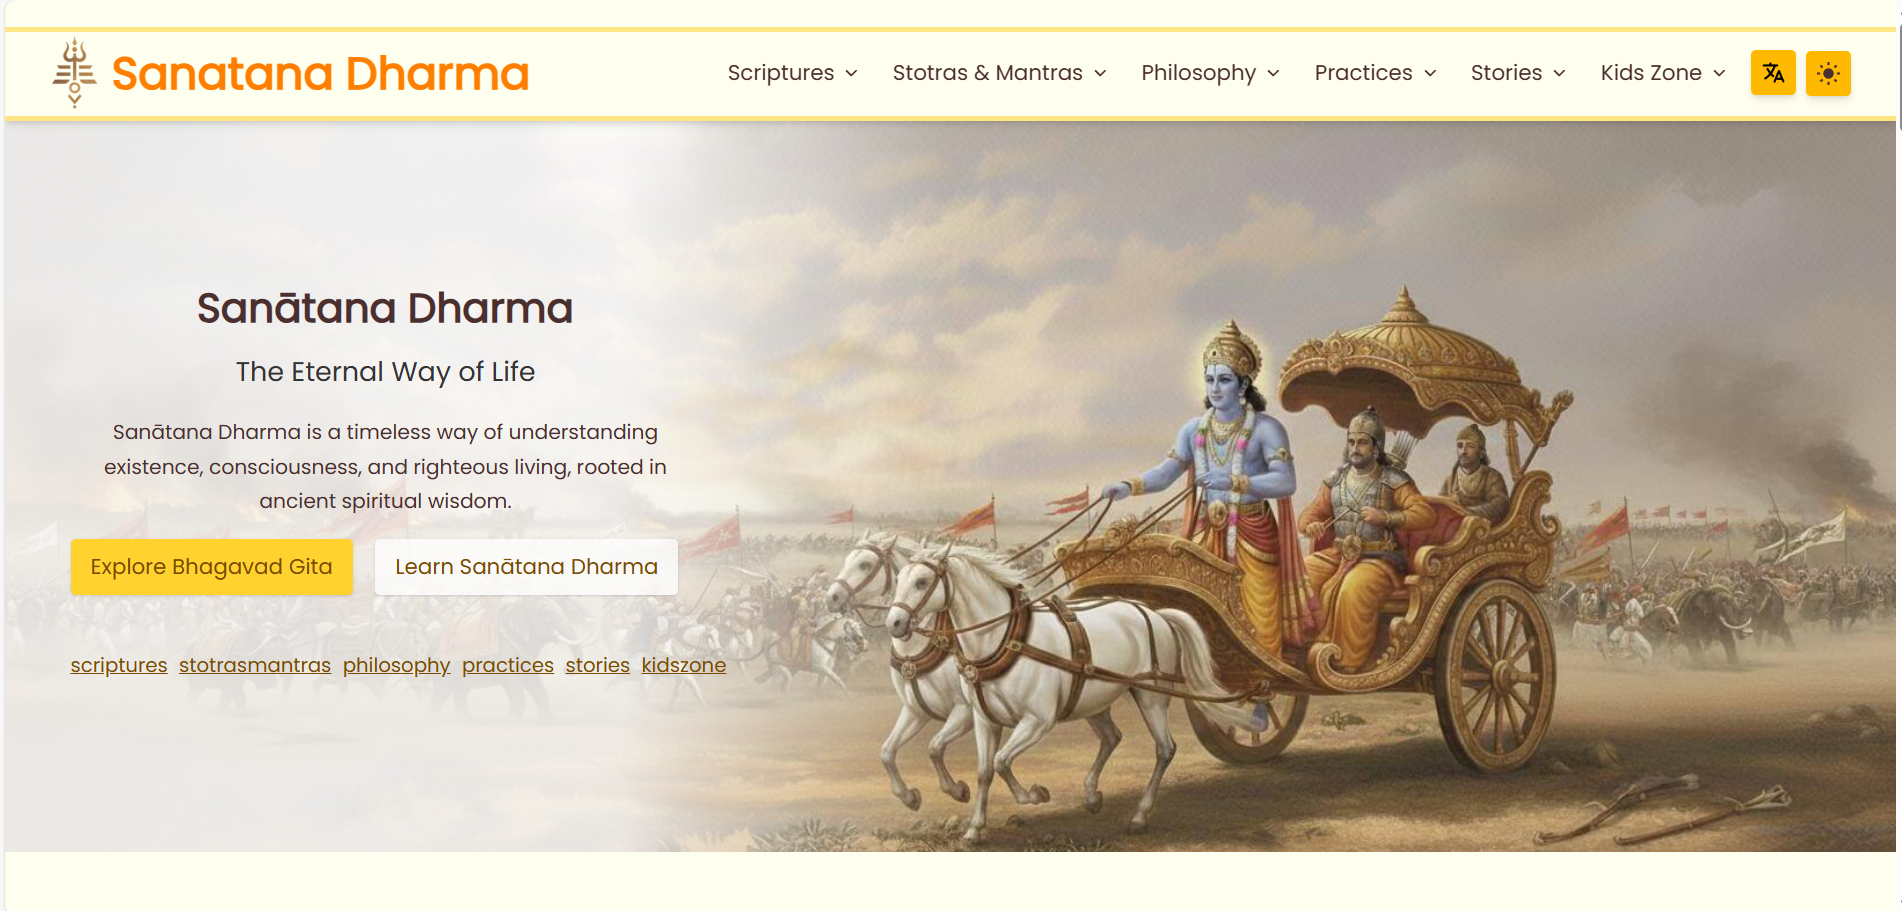
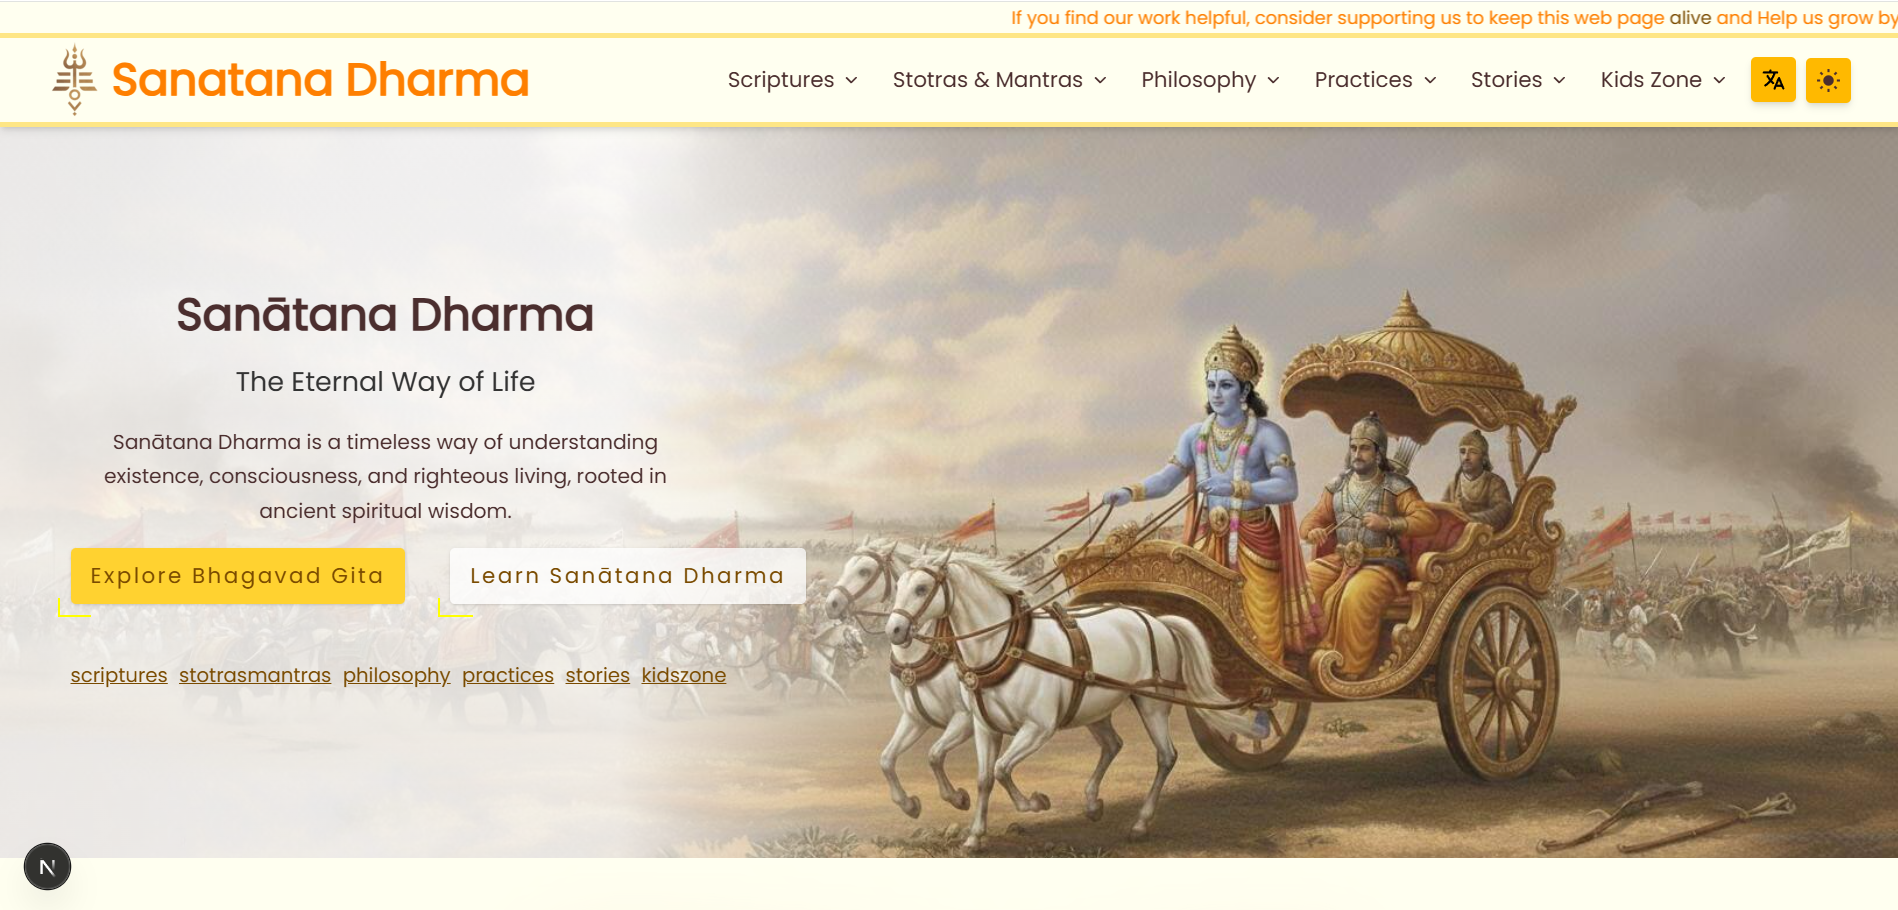
button animations

diff --git a/app/animations.module.scss b/app/animations.module.scss
@@ -1,106 +1,95 @@
-
-a{
-  display: block;
-  width: 150px;
-  line-height: 40px;
-  background: orangered;
-  text-align: center;
+.button,
+a.button {
   position: relative;
-  text-decoration: none;
-  color: #fff;
-  font-size: 15px;
-  font-weight: 500;
-  text-transform: uppercase;
-  letter-spacing: 2px;
+  z-index: 0;
+  display: inline-block;
+  overflow: visible;
 }
-
-a:before,
-a:after{
-  position: absolute;
+.button::before,
+a.button::before,
+.button::after,
+a.button::after {
   content: "";
+  position: absolute;
+  z-index: 1;
   transition: all .25s;
+  display: block;
+  box-sizing: border-box;
+  width: 10%;
+  height: 33%;
+  left: -6px;
+  bottom: -6px;
+  min-width: 18px;
+  min-height: 12px;
 }
-
-a:before{
+.button::before,
+a.button::before {
   border-bottom: 2px solid yellow;
   border-left: 2px solid yellow;
-  width: 10%;
-  height: 33%;
-  left: -10px;
-  bottom: -10px;
 }
-
-a:after{
+.button::after,
+a.button::after {
   border-top: 2px solid yellow;
   border-right: 2px solid yellow;
-  width: 10%;
-  height: 33%;
-  top: -10px;
-  right: -10px;
+  /* Debug: make the pseudo-element visible during hover */
+  background: rgba(255, 0, 0, 0.12);
+  border-color: red;
+  box-shadow: 0 0 6px rgba(255,0,0,0.25);
+  pointer-events: none;
+  z-index: 9999;
 }
-
-a:hover:before{
+.button:hover::before,
+a.button:hover::before {
+  width: 112%;
+  height: 140%;
+}
+.button:hover::after,
+a.button:hover::after {
   width: 112%;
   height: 140%;
 }
 
-a:hover:after{
-  width: 112%;
-  height: 140%;
-}
-
-
-.rainbow {
-  width :  100%;
-  height:  100%;
-  animation: o-rotate-360 linear 8s infinite;
-
-  span {
-    display: block;
-    width: 100%; height: 100%;
-    position: relative;
-    transform: translate(-50%, -50%);
-
-    &:after {
-      display: block;
-      content: "";
-      width: 100%; height: 100%;
-      position: absolute;
-      left: 100%;
-    }
-
-    &:first-child {
-                background: var(--color-first);
-      &:after { background: var(--color-second) }
-    }
-
-    &:last-child {
-                background: var(--color-third);
-      &:after { background: var(--color-forth) }
-    }
-  }
-}
-
-
-@keyframes o-rotate-360 {
-  0% { transform: rotate(0) }
-
-  100% { transform: rotate(360deg) }
-}
-
-
-a{
-	font-size:6vw;
-	letter-spacing:0.2em;
-	text-decoration:none;
-	color:#363636;
-	background:linear-gradient(to right,#363636 0%,#363636 100%);
-	background-repeat: no-repeat;
-	background-position: left 100%;
-	transition-duration: 1s;
-	background-size: 0 6%;
-	&:hover{
-		background-size:100% 6%;
-	}
-}
-
+// .rainbow {
+//   width :  100%;
+//   height:  100%;
+//   animation: o-rotate-360 linear 8s infinite;
+//   span {
+//     display: block;
+//     width: 100%; height: 100%;
+//     position: relative;
+//     transform: translate(-50%, -50%);
+//     &:after {
+//       display: block;
+//       content: "";
+//       width: 100%; height: 100%;
+//       position: absolute;
+//       left: 100%;
+//     }
+//     &:first-child {
+//       background: var(--color-first);
+//       &:after { background: var(--color-second) }
+//     }
+//     &:last-child {
+//       background: var(--color-third);
+//       &:after { background: var(--color-forth) }
+//     }
+//   }
+// }
+// @keyframes o-rotate-360 {
+//   0% { transform: rotate(0) }
+//   100% { transform: rotate(360deg) }
+// }
+// a {
+// 	font-size:6vw;
+// 	letter-spacing:0.2em;
+// 	text-decoration:none;
+// 	color:#363636;
+// 	background:linear-gradient(to right,#363636 0%,#363636 100%);
+// 	background-repeat: no-repeat;
+// 	background-position: left 100%;
+// 	transition-duration: 1s;
+// 	background-size: 0 6%;
+// 	&:hover{
+// 		background-size:100% 6%;
+// 	}
+// }

diff --git a/app/components/footer/footer.tsx b/app/components/footer/footer.tsx
@@ -34,7 +34,7 @@ export default function Footer() {
 
   const title = t('footer.title');
   const quote = t('footer.quote');
-  const quoteSource = t('footer.quoteSource');
+  const quoteSource = t('footer.quotesource');
   const contactLabel = t('footer.contact');
   const donateLabel = t('footer.donate');
   const disclaimer = t('footer.disclaimer');
@@ -65,7 +65,7 @@ export default function Footer() {
         <section className="content-wrapper text-center">
           <p className="title">{title}</p>
           <p className="subtitle">{quote} {quoteSource}</p>
-          <div className="flex items-center justify-center gap-4">
+          <div className="flex items-center justify-center gap-4 md:gap-8">
             <Link href="/contact" className={`${styles.button} button inline-black shadow-sm bg-amber-300 hover:bg-amber-400 no-underline`}>
               {contactLabel}
             </Link>

diff --git a/app/components/git-support/git-support.tsx b/app/components/git-support/git-support.tsx
@@ -25,7 +25,7 @@ export default function GitSupport({ locale }: { locale?: string }) {
       <div className={`${styles.gitsupport} md:content-wrapper md:absolute md:top-1/2 md:left-20 md:-translate-y-1/2 md:z-1`}>
         <h6 className={`title font-light!`}>{t('cta.title', loc)}</h6>
         <p>{t('cta.subtitle', loc)}</p>
-        <div className="flex flex-col md:flex-row gap-4">
+        <div className="flex flex-col md:flex-row gap-4 md:gap-8">
           <Link href="https://github.com/vulchivijay/first-contributes" target="_blank" className="button inline-block shadow-sm bg-amber-300 hover:bg-amber-400 no-underline">{t('cta.contribute', loc)}</Link>
           <Link href="https://github.com/vulchivijay/first-contributes" target="_blank" className="button inline-block shadow-sm bg-white/75 hover:bg-white no-underline">{t('cta.guidelines', loc)}</Link>
         </div>

diff --git a/app/components/hero-section/herosection.tsx b/app/components/hero-section/herosection.tsx
@@ -22,7 +22,7 @@ export default function HeroSection() {
           <h1 className={`title site-title md:max-w-md`}>{heading}</h1>
           <p className={`subtitle site-subtitle font-semibold md:max-w-md`}>{subheading}</p>
           <p className={`description md:max-w-md`}>{description}</p>
-          <div className="flex flex-col md:flex-row gap-4">
+          <div className="flex flex-col md:flex-row gap-4 md:gap-8">
             <Link href={`/scriptures/${primaryCtaLink}`} className="button inline-block shadow-sm bg-amber-300 hover:bg-amber-400 no-underline">
               {primaryCtaLabel}
             </Link>

diff --git a/app/styles.scss b/app/styles.scss
@@ -1,3 +1,4 @@
 @use "variables.module";
 @use "base.module";
 @use "layout.module";
+@use "animations.module";
